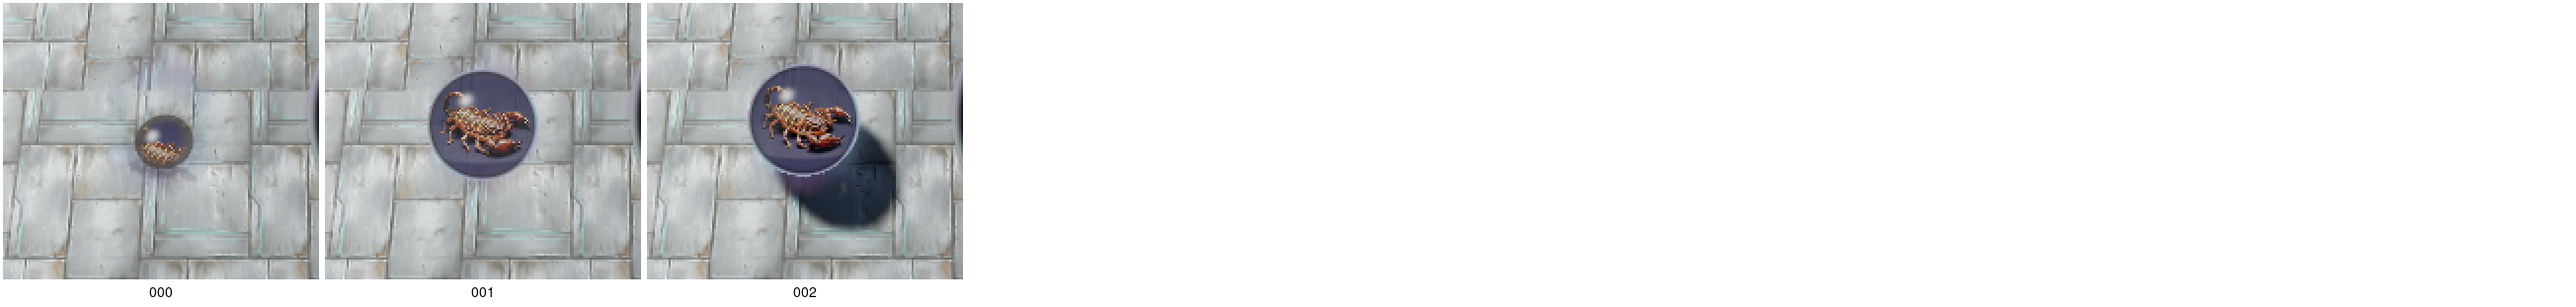
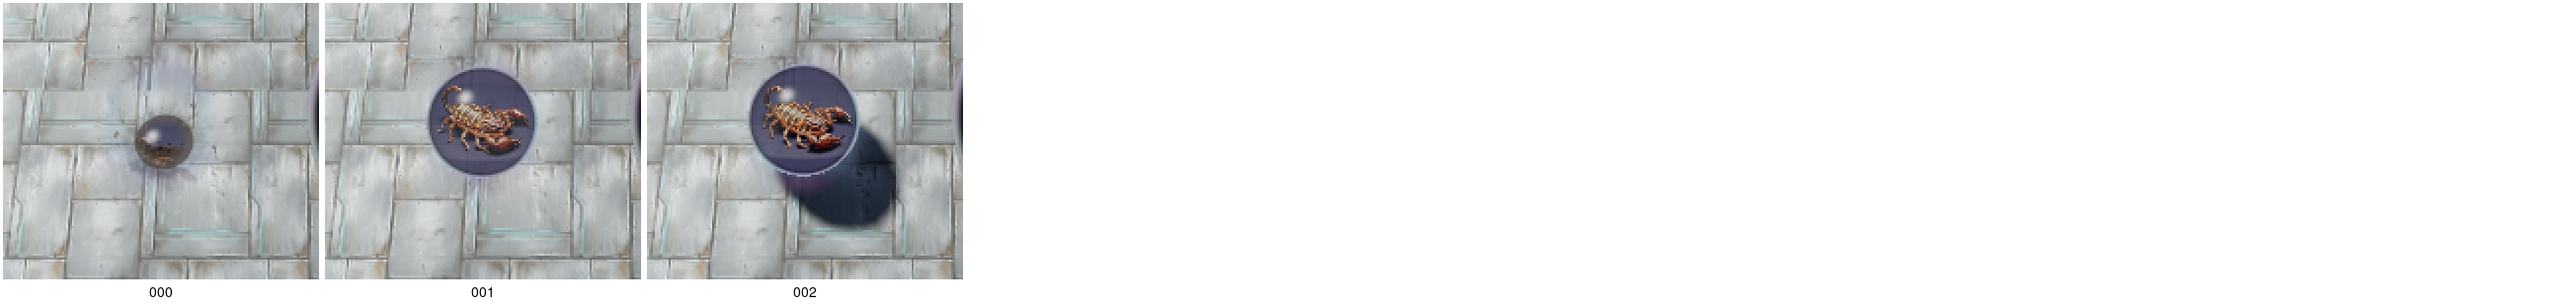
effects WP8: evidence on the merged tree with WP13's mode clips; the shipped burrower in the stance tests
The stance GPU tests burrow the shipped Lurker analogue whenever it has media, so its own
burrowed and morph clips play in the dome; the cloaked units stay the unarmed stand-in.
Review sheets, sequences, battle captures (undetected, bare, detected) and measurements are
refreshed on radv and lavapipe after the merge and the distortion fix; the packet describes
the merged material.

Claude-Session: https://claude.ai/code/session_01Tj7a5XZ4mBxWXnyoUg8xVU

Changed region(s): [[0.1553, 0.2315, 0.2174, 0.5209], [0.0311, 0.463, 0.0932, 0.5209], [0.1553, 0.5498, 0.2174, 0.5788]]

diff --git a/crates/client/tests/stance_gpu_tests.rs b/crates/client/tests/stance_gpu_tests.rs
@@ -30,10 +30,12 @@
 //!
 //! # How it fits
 //! Each child re-executes this test binary through `support/gpu_run.rs` (charter §7, C21), as
-//! `concealment_gpu_tests.rs` does. The shipped burrowing unit has no media yet, so the burrowing
-//! unit is the presentable stand-in of `battle_harness::burrower`, given the shipped unit's
-//! mode-switch ability in the session's catalog, with the effect tables rebuilt from that
-//! catalog so it names its mode's looks. Every unit is chosen by catalog properties.
+//! `concealment_gpu_tests.rs` does. The burrowing unit is the shipped one, with its own
+//! burrowed-mode clip (plan WP13), whenever it has media, else the presentable stand-in of
+//! `battle_harness::burrower` given the shipped unit's mode-switch ability in the session's
+//! catalog; the effect tables are rebuilt from the session's catalog so a stand-in names its
+//! mode's looks. The cloaked units are `burrower`'s unarmed unit. Every unit is chosen by
+//! catalog properties.
 //!
 //! # Invariants verified
 //! - The staging published what it claims (concealment, presence, a mode switch under way).
@@ -686,9 +688,18 @@ fn hold_own_units(session: &mut BattleSession) {
 }
 
 /// The presentable burrowing unit type of `world` that can switch into its burrowed mode by
-/// command, and that mode's name: [`burrower`]'s unit, given the shipped burrowing unit's
-/// mode-switch ability in the session's catalog when it is a stand-in.
+/// command, and that mode's name: the shipped burrowing unit itself once it has media (its own
+/// burrowed-mode clip then plays in its dome, plan WP13), else [`burrower`]'s stand-in given the
+/// shipped unit's mode-switch ability in the session's catalog. The shipped unit is armed in
+/// its mode; nothing it could target is near the spots it is put on.
 fn burrowing_unit(world: &mut SimWorld) -> (UnitTypeId, String) {
+    let shipped = world.catalog.archetypes().find_map(|arch| {
+        let mode = arch.modes.iter().find(|mode| mode.burrowed)?;
+        presentable(&assets(), &arch.slug).then(|| (arch.unit_type_id, mode.mode_name.clone()))
+    });
+    if let Some(shipped) = shipped {
+        return shipped;
+    }
     let (unit, mode) = burrower(world, &assets());
     let switch = world
         .catalog

diff --git a/docs/evidence/effects/review/independent_review_packet.md b/docs/evidence/effects/review/independent_review_packet.md
@@ -18,9 +18,9 @@ concrete reason (file, cell or frame, what you see), and say whether the shipped
 Unlike the earlier rounds, these looks are not drawn in the effect lab but on units in the production client
 playing the shipped skirmish, because they modify the units' own bubbles. The pictures are screenshots of
 `crates/client/tests/stance_gpu_tests.rs`'s two children (debug build, Xvfb, 1280×720 window), on radv (the
-physical GPU) and on lavapipe, at the camera's default distance. The burrowing unit is the presentable stand-in
-`battle_harness::burrower` picks (a scorpion picture in its bubble), given the shipped burrowing unit's burrowed
-mode and Burrow ability in the test session's catalog; the anchoring unit is the shipped Siege-Tank analogue.
+physical GPU) and on lavapipe, at the camera's default distance. The burrowing unit is the shipped Lurker
+analogue (a scorpion picture, with WP13's burrowed and morph clips), the anchoring unit the shipped Siege-Tank
+analogue (with WP13's sieged clip); the cloaked units are an unarmed stand-in `battle_harness::burrower` picks.
 Nothing was spent and no texture was made.
 
 ### The looks (what each is meant to be)
@@ -60,8 +60,11 @@ enemy cloaked unit right of it (to the upper right of the row of workers).
 - Whether the burrowed unit reads as dug in rather than as a small disc on the ground, at the default zoom, and
   whether its owner still reads the unit clearly (Q0076: own concealed units stay readable). The burrowed dome
   shows the unit's own picture unveiled, with only a thin soil band at the ground line and an earth-coloured
-  outline; once the WP13 burrowed-mode clips land (a separate branch), the dome shows that clip. The player's
-  own cloaked unit keeps its picture at about half opacity under a cool outline.
+  outline. Since WP13 merged, the burrowing unit in these captures is the shipped Lurker analogue, and its dome
+  shows its own burrowed-mode clip (the Siege-Tank analogue likewise plays its sieged clip). The dome is sunk to
+  at most 35 % of the standing bubble's area, as WP8's test requires, so only the clip's middle shows; whether
+  that is readable enough for its owner is a question for this review. The player's own cloaked unit keeps its
+  picture at about half opacity under a cool outline.
 - Whether the shimmer is faint and colourless (item 7): compare `wp8_shimmer_pose_*` cells 1 and 2, and the battle
   capture's enemy before and after detection.
 - Before hand-off, the implementer's battle capture showed a small shadow-coloured spot at the undetected
